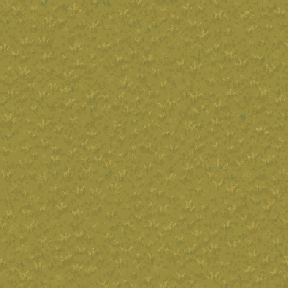
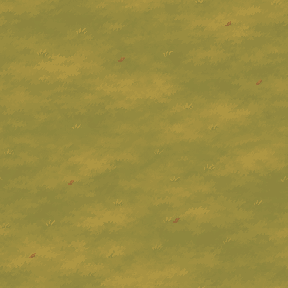
art-drop: round 14 part A2

diff --git a/art-drop/NOTES.md b/art-drop/NOTES.md
@@ -1,3 +1,120 @@
+# Round 14 — Part A2: critic-r14A2-1 redraw
+
+Repaired only **`out/grass@autumn-detail-7.png`**. Its summer mask is now
+exact: **626 opaque pixels**, bounds **(7, 11, 41, 37)**, and **zero differing
+alpha pixels**. Restored all **111** missing summer pixels and removed all
+**54** autumn-only pixels, including the lowered foot. This supersedes the
+previous A2 note's intentional silhouette change.
+
+The critic accepted the drawing and requested registration, so the existing
+large magenta-backed bush painting **`r14-A2-source-detail-7a.png`** was reused.
+Compared two registrations; selected bounding-box registration for clearer
+woody forks. BOX-registered to **384×384**, locked to the existing **14-colour**
+autumn palette, then reduced by exact RGBA mode over all **64 samples per
+8×8 block**. Composited through the summer mask; **33** uncovered samples use
+the nearest painted sample. One-pixel contour cleanup stays inside that mask,
+with contact shade inside the original foot. Hard alpha **0/255**, zero hidden
+RGB; no constructed shapes, noise, or new drawing substituted for the source.
+
+Regenerated all **26 final A2 proofs** and added native/4× seasonal-mask
+comparisons under **`review/r14-A2-critic1-*.png`**. Visual self-review retains
+rust/amber foliage, upper-left light, branches and a readable outline at 1×.
+Validation passes both mode reductions (**4,608 blocks / 294,912 samples**),
+**16 exact 4× pairs**, **27 literal repeat placements**, and mask/palette/alpha
+checks. Recipes and results are embedded in `review/r14-A2-base-1x.png`.
+The three passing outputs remain byte-identical; base mean remains
+**RGB (153.53, 140.18, 63.74)**. Summer partners, autumn plains, details
+**0, 2, 4, 5, 6**, references and the supplied critic report are unchanged.
+No new independent critic or live-game verdict; no commit, push or branch change.
+
+---
+
+# Round 14 — Part A2
+
+Polished only **`out/grass@autumn-base.png` (288×288)** and
+**`grass@autumn-detail-{1,3,7}.png` (48×48)** after the in-game Part A review.
+The ground now has broad tawny/khaki light and shade, dry ochre patches and
+small rust/brown fallen leaves. Detail 7 is a new outlined autumn bush with
+amber upper-left foliage, rust lower boughs, visible woody forks and a dark
+contact foot. The mossy rock and grass tuft have stronger shaded edges and
+highlights while retaining their exact original and summer alpha masks.
+
+**Method:** seven large built-in image-tool paintings on solid magenta:
+two ground variants, two bush variants, one rock repaint, one tuft repaint
+and one half-offset wrap repaint. Selected **ground B / bush A**; B has fewer
+repeated leaf landmarks, while A keeps readable branches at native scale.
+Exact prompts are embedded in `review/r14-A2-source-*.png`.
+
+The ground square is cropped inside its magenta fringe, BOX-registered to
+**1152×1152**, locked to a **20-colour** palette with four source-sampled rust
+slots, and reduced by the exact RGBA mode of all **16 samples per 4×4 block**.
+A constant palette translation sets the target mean without changing drawn
+patch geometry. A **144 px** offset brings the joins to the centre; the
+separate wrap painting is registered, palette-locked and mode-reduced in the
+same way. Minimum-error hard cuts transfer **25,927 drawn pixels** through a
+narrow cross, preserving the offset outer three-pixel ring. No blended seam
+or synthetic terrain texture is added.
+
+Details are magenta-keyed, BOX-registered to **384×384**, palette-locked and
+reduced by the exact RGBA mode of all **64 samples per 8×8 block**, including
+transparency. Rock and tuft paints are composited through their existing
+masks. Native one-pixel contour cleanup changes **25 / 64 / 90 colour pixels**
+for details **1 / 3 / 7**; it adds no silhouette pixels. The bush palette is
+slightly desaturated to keep rust and amber restrained. Final palettes contain
+**12 / 13 / 14 opaque colours**. Hard alpha **0/255**, zero RGB under
+transparency. Code only registers, reduces, palette-locks, cleans, wraps and
+composites the drawings; it constructs no shapes or noise.
+
+**Measurements:** final ground mean RGB is **153.53, 140.18, 63.74**,
+within **0.54** of the requested target in every channel. Hue **51.08°** and
+luma **137.50** remain between summer grass (**77.03° / 111.65**) and unchanged
+autumn plains (**34.11° / 153.41**). The ground contains **111 rust/brown leaf
+pixels**, scattered in small drawn marks.
+
+Broad tonal drift is measured as the standard deviation of mean luma in
+non-overlapping **48×48** blocks: **0.30 before → 2.16 now**, compared with
+**2.06 summer / 4.27 autumn plains**. At 24×24 blocks the new value is **3.18**,
+versus **0.52 before**. Mean absolute RGB steps across left/right and top/bottom
+wraps are **1.34 / 1.18**, versus **1.19 / 1.28** across internal neighbours.
+
+| Detail | Final bounds, right/bottom exclusive | Opaque pixels | Alpha differences from before |
+|---|---|---:|---:|
+| 1 — mossy rock | (8, 15, 40, 33) | 425 | **0** |
+| 3 — grass tuft | (9, 8, 39, 39) | 379 | **0** |
+| 7 — autumn bush | (8, 14, 40, 38) | 569 | 165, intentional redraw |
+
+The rock and bush are each connected. The tuft retains its exact inherited
+seed-head gaps and four components (358 / 9 / 7 / 5 pixels); no new detached
+fragments were introduced.
+
+**QC and review:** inspected native 1× and exact nearest-neighbour 4× views,
+all eight details on the new ground, before/after rows, individual detail
+proofs, a map-like meadow, the half-offset junction and literal 3×3 repeats.
+The new base is shown beside summer grass and autumn plains both singly and
+in repeated comparisons. The outline, upper-left lighting and native scale
+read consistently with neighbouring details. No hard tile seam, rounded grid
+edge, distinct large patch landmark, magenta fringe, backing square, haze or
+blur was found. Small repeated leaf positions remain locatable on deliberate
+inspection. This is visual self-review, without a new live-game verdict.
+
+There are **26 final proof PNGs (13 pairs)** under `review/r14-A2-*.png`, plus
+source paintings, alternatives, inputs and processing stages: **70 new PNGs**
+in total. Each ground repeat is **864×864 at 1× / 3456×3456 at 4×**. The
+side-by-side repeat comparison also preserves literal 1× and 4× pixels.
+
+Validation recomputed **258,048 mode blocks / 4,571,136 samples**, verified
+**15 exact 4× pairs** including alternatives, **27 literal repeat crops**,
+recorded wrap and contour reconstruction, sizes, palettes, alpha, hidden RGB
+and both preserved masks. **All 3,142 protected starting files remain
+byte-identical**, including `plains@autumn-base.png`, details **0, 2, 4, 5, 6**,
+summer partners, every reference and all earlier review sheets. Processing,
+review and validation recipes plus measurements are embedded in
+`review/r14-A2-base-1x.png`; starting hashes are in `review/r14-A2-reference.png`.
+Only the four named outputs, these A2 PNGs and this top note changed.
+**No commit, push or branch change.**
+
+---
+
 # Round 14 — Part D: critic-r14D-1 redraw
 
 Redrew only **`out/scifi-tree@winter-1.png` and `out/scifi-tree@winter-3.png`**
